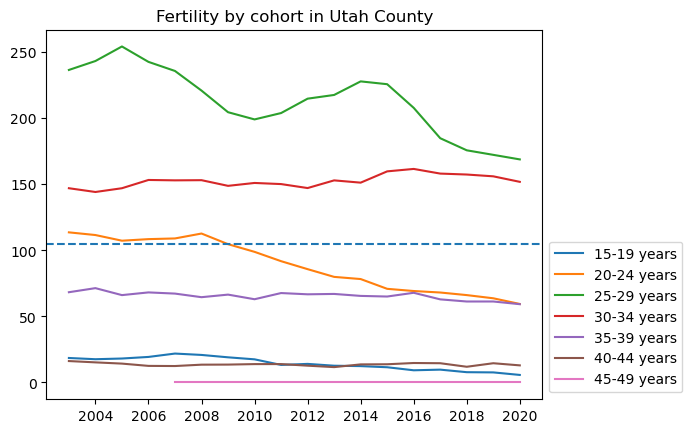
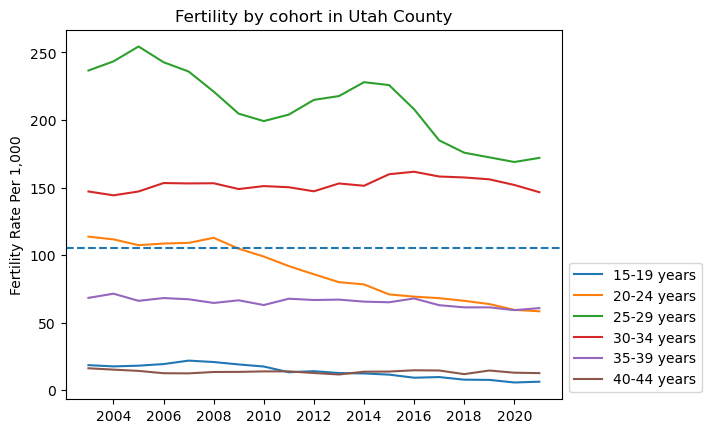
updated Mormon fertility

diff --git a/_posts/2021-03-19-mormon-fertility-indicators.html b/_posts/2021-03-19-mormon-fertility-indicators.html
@@ -14,7 +14,8 @@ header-img: /assets/img/mormon-fertility-6-indicators.png
 <p>I discovered that the CDC keeps a record of <a href=https://www.cdc.gov/nchs/data_access/vitalstatsonline.htm>every birth certificate in America</a> going back to 1968 (at least the metadata). You can actually download all the metadata yourself, but the version they let you download redacts all the geographic (county) data. Which makes it kind of useless. BUT you can query the data for certain statistics through <a href=https://wonder.cdc.gov/>wonder.cdc.gov</a>.</p>
 <p>There are a few things I've been "wondering" about Mormons and their famously-high fertility since I saw <a href=https://www.cdc.gov/nchs/data/nvsr/nvsr68/nvsr68_01-508.pdf>this report</a> which said the white fertility in Utah fell below replacement-level in 2017. So I queried the data for 3 representative geographies: the first obvious one being Utah (the Mormon Mothership) but Utah is pretty multicultural these days so you can't get an accurate picture of what's happening with the Mormons just by looking at Utah. Two much better geographies are Utah County, Utah (home of Brigham Young University) and Bonneville County, Idaho (neighbor of Brigham Young University - Idaho). These two yuge 99% Mormon universities make both of these counties nearly Mormon-monocultural so they should be great indicators of the current fertility rate in the Mormon community. Here are the results:</p>
 Edit 10:30PM MST: Thank you <a href=https://twitter.com/PoisonAero>@PoisonAero</a> for correcting the calculations! Now they are actually the Total Fertility Rate, and not the Crude Fertility Rate.<br>
-Edit 29 Oct 2021, 8:00PM MST: Updated charts adding 2020 Natality data
+Edit 29 Oct 2021, 8:00PM MST: Updated charts adding 2020 Natality data<br>
+Edit 3 Dec 2022, 10:30AM MST: Updated charts adding 2021 Natality data
 
 <p style="text-align:center"><img src=/assets/img/mormon-fertility-6-indicators.png></p>
 
@@ -23,21 +24,17 @@ The fertilty rate of Utah County fell 24.7% from 3.04 in 2005 to 2.29 in 2020. T
 <h3>Sources:</h3>
 Every value in the "Fertility Rate per 1,000" column of the following tables is an average annual fertility of women over a 5-year age range. To convert to Total Fertility Rate (TFR), sum the cohort-fertility rates together, multiply by 5, and divide by 1000.
 <h4>Everyone:</h4>
-(State of Utah)<br>
-2003-2006 <a href=https://wonder.cdc.gov/controller/saved/D27/D133F771>https://wonder.cdc.gov/controller/saved/D27/D133F771</a><br>
-2007-2020 <a href=https://wonder.cdc.gov/controller/saved/D66/D133F772>https://wonder.cdc.gov/controller/saved/D66/D133F772</a><br>
-(Counties)<br>
-2003-2006 <a href=https://wonder.cdc.gov/controller/saved/D27/D137F663>https://wonder.cdc.gov/controller/saved/D27/D137F663</a><br>
-2007-2020 <a href=https://wonder.cdc.gov/controller/saved/D66/D137F669>https://wonder.cdc.gov/controller/saved/D66/D137F669</a><br>
+
+2003-2006 <a href=https://wonder.cdc.gov/controller/saved/D27/D315F685>https://wonder.cdc.gov/controller/saved/D27/D315F685</a><br>
+2007-2015 <a href=https://wonder.cdc.gov/controller/saved/D66/D315F693>https://wonder.cdc.gov/controller/saved/D66/D315F693</a><br>
+2016-2021 <a href=https://wonder.cdc.gov/controller/saved/D149/D315F694>https://wonder.cdc.gov/controller/saved/D149/D315F694</a><br>
+
 <h4>Non-Hispanic Whites:</h4>
-(State of Utah)<br>
-2003-2006 <a href=https://wonder.cdc.gov/controller/saved/D27/D243F692>https://wonder.cdc.gov/controller/saved/D27/D243F692</a><br>
-2007-2015 <a href=https://wonder.cdc.gov/controller/saved/D66/D243F704>https://wonder.cdc.gov/controller/saved/D66/D243F704</a><br>
-2016-2020 <a href=https://wonder.cdc.gov/controller/saved/D149/D243F699>https://wonder.cdc.gov/controller/saved/D149/D243F699</a><br>
-(Counties)<br>
-2003-2006 <a href=https://wonder.cdc.gov/controller/saved/D27/D243F700>https://wonder.cdc.gov/controller/saved/D27/D243F700</a><br>
-2007-2015 <a href=https://wonder.cdc.gov/controller/saved/D66/D243F708>https://wonder.cdc.gov/controller/saved/D66/D243F708</a><br>
-2016-2020 <a href=https://wonder.cdc.gov/controller/saved/D149/D243F705>https://wonder.cdc.gov/controller/saved/D149/D243F705</a><br>
+
+2003-2006 <a href=https://wonder.cdc.gov/controller/saved/D27/D315F695>https://wonder.cdc.gov/controller/saved/D27/D315F695</a><br>
+2007-2015 <a href=https://wonder.cdc.gov/controller/saved/D66/D315F690>https://wonder.cdc.gov/controller/saved/D66/D315F690</a><br>
+2016-2021 <a href=https://wonder.cdc.gov/controller/saved/D66/D315F691>https://wonder.cdc.gov/controller/saved/D66/D315F691</a><br>
+
 
 <h3>Addendum</h3>
 <p>Due to expressed interest, I have created a chart that shows the fertility rate of every county in Utah with available data (there were only 6 available counties). I have updated the source links as well; they now link to tables that include all available counties in Utah and Idaho.</p>
@@ -47,3 +44,4 @@ Every value in the "Fertility Rate per 1,000" column of the following tables is 
 <h3>Cohort fertility in Utah County</h3>
 <p>Utah County serves as a useful case study to see what is happening to fertility by age group. There have been large declines in cohort-fertility rate for 20-29 year olds while the cohort-fertility rate of 30-39 year olds has remained stable.</p>
 <p style="text-align:center"><img src=/assets/img/cohort-fertility-utah-county.png></p>
+<p>I added a horizontal dashed line to the graph at the 105 births per 1000 population mark. There are 6 female cohorts plotted in the graph but only 4 of the cohorts contribute to the total fertility rate in a non-negligible way (20-24 years, 25-29 years, 30-34 years, and 35-39 years). The dashed line represents the average fertility these 4 cohorts much reach by themselves to push the total fertility rate above replacement.</p>
